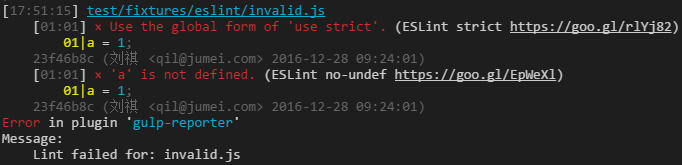
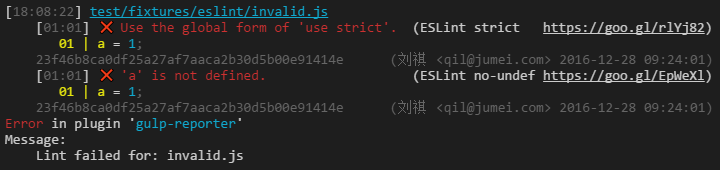
Formater (#93)
* fix testcase

* update devDependencies

* testcase for formater

* update nyc config

* update eslint config of testcase

Changed region(s): [[0.0, 0.0303, 1.0, 0.5758], [0.0, 0.5758, 1.0, 0.9697], [0.0308, 0.1212, 0.0616, 0.2121]]

diff --git a/lib/formater.js b/lib/formater.js
@@ -1,18 +1,68 @@
 'use strict';
-const logSymbols = require('log-symbols');
 const gutil = require('gulp-util');
 const path = require('path');
 const emphasize = require('emphasize');
-const ellipsis = require('text-ellipsis');
-const icon = Object.assign({
-	warn: logSymbols.warning,
-}, logSymbols);
+const cliTruncate = require('cli-truncate');
+const stringWidth = require('string-width');
 
-function highlight(error, maxLineLength) {
-	let source = error.source;
-	if (maxLineLength) {
-		source = ellipsis(source, maxLineLength);
+const icon = {
+	default: '\u{2714}\u{fe0f}',
+	info: '\u{2139}\u{fe0f}',
+	warn: '\u{26a0}\u{fe0f}',
+	error: '\u{274c}\u{fe0f}',
+};
+
+const msgColor = {
+	default: gutil.colors.green,
+	info: gutil.colors.blue,
+	warn: gutil.colors.yellow,
+	error: gutil.colors.red,
+};
+
+let padNum;
+if (String.prototype.padStart) {
+	padNum = function (number, targetLength) {
+		return String(number).padStart(targetLength, '0');
+	};
+} else {
+	padNum = function (number, targetLength) {
+		number = String(number);
+		targetLength = targetLength - number.length;
+		if (targetLength > 0) {
+			return ('0').repeat(targetLength) + number;
+		}
+		return number;
+	};
+}
+
+function justify(left, right, width) {
+	if (left) {
+		width -= stringWidth(left);
+	} else {
+		left = '';
 	}
+	if (right) {
+		width -= stringWidth(right);
+	} else {
+		right = '';
+	}
+	return left + ' '.repeat(Math.max(width, left && right ? 1 : 0)) + right;
+}
+function timeFormat(timestamp) {
+	timestamp = new Date(timestamp * 1000);
+	return [
+		timestamp.getFullYear(),
+		padNum(timestamp.getMonth() + 1, 2),
+		padNum(timestamp.getDate(), 2),
+	].join('-') + ' ' + [
+		padNum(timestamp.getHours(), 2),
+		padNum(timestamp.getMinutes(), 2),
+		padNum(timestamp.getSeconds(), 2),
+	].join(':');
+}
+
+function highlight(error) {
+	let source = error.source.replace(/\t/g, '    ');
 	if (gutil.colors.enabled) {
 		const extname = path.extname(error.fileName).slice(1);
 		if (extname) {
@@ -22,88 +72,170 @@ function highlight(error, maxLineLength) {
 				//
 			}
 		}
-		return emphasize.highlightAuto(source).value;
+		source = emphasize.highlightAuto(source).value;
 	}
 	return source;
 }
 
-function padNum(num) {
-	if (num <= 9) {
-		num = '0' + num;
-	} else {
-		num = String(num);
-	}
-	return num;
-}
-
-function addLineNumbers(code, line) {
+function addLineNumbers(code, line, fmtOpts) {
 	function add(s) {
-		let prefix = padNum(line);
-		prefix = ' '.repeat(6 - prefix.length) + gutil.colors.yellow(prefix + '|');
+		let prefix = ' '.repeat(fmtOpts.columnNumberWidth + 1);
+		prefix += gutil.colors.yellow(padNum(line, fmtOpts.lineNumberWidth) + ' | ');
 		line++;
 		return prefix + s;
 	}
 	return code.replace(/^.*$/gm, add);
 }
 
-
-function formatError(error, cache, maxLineLength) {
+function formatError(error, fmtOpts) {
 	const message = [];
-
-	function subMsg(msg) {
-		msg = msg.filter(Boolean);
-		if (msg.length) {
-			return `(${ msg.join(' ') })`;
-		}
+	let severity = error.severity;
+	if (!severity || !icon[severity]) {
+		severity = 'default';
 	}
 
-	function addMsg(msg, color) {
-		msg = msg.filter(Boolean).join(' ');
-		if (color) {
-			msg = gutil.colors[color](msg);
-		}
-		message.push(msg);
+	const mainMessage = '[' + gutil.colors.gray(`${
+		padNum(error.lineNumber || 1, fmtOpts.lineNumberWidth)
+	}:${
+		padNum(error.columnNumber || 1, fmtOpts.columnNumberWidth)
+	}`) + '] ' + msgColor[severity](icon[severity] + ' ' + error.message);
+	let subMsg = [];
+
+	if (error.plugin) {
+		subMsg.push(justify(error.plugin, null, fmtOpts.maxPluginNameWidth));
+	}
+
+	if (error.rule) {
+		subMsg.push(justify(error.rule, null, fmtOpts.maxRuleNameWidth));
+	}
+
+	if (subMsg.length === 1) {
+		subMsg[0] = justify(subMsg[0], null, fmtOpts.maxPluginNameWidth + fmtOpts.maxRuleNameWidth + 1);
 	}
 
 	const link = error.docShort || error.doc;
 
-	addMsg([
-		error.lineNumber && '[' + gutil.colors.gray(`${ padNum(error.lineNumber) }:${ padNum(error.columnNumber) || 0 }`) + ']',
-		gutil.colors[error.severity === 'error' ? 'red' : 'yellow'](
-			(icon[error.severity] || icon.warn) +
-				' ' +
-				error.message
-		),
-		subMsg([error.plugin, error.rule, link && gutil.colors.underline(link)]),
-	]);
+	if (link) {
+		subMsg.push(gutil.colors.underline(link));
+	}
+	if (subMsg.length) {
+		subMsg = `(${ subMsg.join(' ').trim() })`;
+		if (stringWidth(mainMessage) + stringWidth(subMsg) >= fmtOpts.termColumns) {
+			message.push(mainMessage);
+			message.push(justify(
+				null,
+				subMsg,
+				fmtOpts.termColumns
+			));
+		} else {
+			message.push(
+				justify(
+					mainMessage,
+					subMsg,
+					fmtOpts.termColumns
+				)
+			);
+		}
+	} else {
+		message.push(mainMessage);
+	}
 
 	if (error.source) {
-		addMsg([
-			cache[error.source] || (cache[error.source] = addLineNumbers(highlight(error, maxLineLength), error.lineNumber))
-		]);
+		let source = fmtOpts.sourceCache[error.source];
+		if (!source) {
+			source = highlight(error);
+			source = addLineNumbers(source, error.lineNumber || 1, fmtOpts);
+			source = cliTruncate(source, fmtOpts.termColumns);
+			fmtOpts.sourceCache[error.source] = source;
+		}
+		message.push(source);
 	}
 
 	if (error.blame) {
-		addMsg([
-			error.blame.hash.slice(0, 8),
-			subMsg([
-				error.blame.author.name,
-				`<${ error.blame.author.mail }>`,
-				new Date(error.blame.author.time * 1000).toLocaleString()
-			])
-		], 'gray');
+		let blame = error.blame._string;
+		if (!blame) {
+			const author = `(${
+				justify(
+					error.blame.author.name,
+					null,
+					fmtOpts.maxNameWidth
+				)
+			} ${
+				justify(
+					`<${ error.blame.author.mail }>`,
+					null,
+					fmtOpts.maxEmailWidth + 2
+				)
+			} ${
+				timeFormat(error.blame.author.time)
+			})`;
+
+			blame = gutil.colors.gray(justify(
+				cliTruncate(
+					error.blame.hash,
+					Math.max(fmtOpts.termColumns - stringWidth(author) - 1, 9)
+				),
+				author,
+				fmtOpts.termColumns
+			));
+			error.blame._string = blame;
+		}
+		message.push(blame);
 	}
 
 	return message.join('\n');
 }
 
 function formater(file, options) {
-	const cache = {};
-	const errors = file.report.errors.map(error => (
-		formatError(error, cache, options.maxLineLength).replace(/^/gm, '\t')
+	const sourceCache = {};
+	let maxLineNumber = 0;
+	let maxColumnNumber = 0;
+	let maxNameWidth = 0;
+	let maxEmailWidth = 0;
+	let maxPluginNameWidth = 0;
+	let maxRuleNameWidth = 0;
+	let errors = file.report.errors;
+	errors.forEach(error => {
+		if (error.lineNumber > maxLineNumber) {
+			maxLineNumber = error.lineNumber;
+		}
+		if (error.columnNumber > maxColumnNumber) {
+			maxColumnNumber = error.columnNumber;
+		}
+		if (error.blame && !/^0+$/.test(error.blame.hash)) {
+			const nameWidth = stringWidth(error.blame.author.name);
+			if (nameWidth > maxNameWidth) {
+				maxNameWidth = nameWidth;
+			}
+			const emailWidth = stringWidth(error.blame.author.mail);
+			if (emailWidth > maxEmailWidth) {
+				maxEmailWidth = emailWidth;
+			}
+		}
+		const pluginNameWidth = error.plugin && stringWidth(error.plugin);
+		if (pluginNameWidth > maxPluginNameWidth) {
+			maxPluginNameWidth = pluginNameWidth;
+		}
+		const ruleNameWidth = error.rule && stringWidth(error.rule);
+		if (ruleNameWidth > maxRuleNameWidth) {
+			maxRuleNameWidth = ruleNameWidth;
+		}
+	});
+	const fmtOpts = {
+		sourceCache,
+		maxNameWidth,
+		maxEmailWidth,
+		maxPluginNameWidth,
+		maxRuleNameWidth,
+		lineNumberWidth: Math.max(String(maxLineNumber).length, 2),
+		columnNumberWidth: Math.max(String(maxColumnNumber).length, 2),
+		termColumns: options._termColumns - 6,
+	};
+	errors = errors.map(error => (
+		formatError(error, fmtOpts).replace(/^/gm, '    ')
 	));
 	errors.unshift(gutil.colors.cyan.underline(path.relative(file.cwd, file.path).replace(/\\/g, '/')));
-	return errors.join('\n').replace(/\t/g, '    ');
+	return errors.join('\n');
 }
 
 module.exports = formater;

diff --git a/test/api.test.js b/test/api.test.js
@@ -4,11 +4,13 @@ const addPostcssSource = require('../lib/add-postcss-source');
 const shortDocUrl = require('../lib/short-doc-url');
 const sortErrors = require('../lib/sort-errors');
 const gitAuthor = require('../lib/git-author');
-const vfs = require('vinyl-fs');
-const eslint = require('gulp-eslint');
+const formater = require('../lib/formater');
 const reporter = require('../');
-const gutil = require('gulp-util');
+const eslint = require('gulp-eslint');
 const through = require('through2');
+const gutil = require('gulp-util');
+const vfs = require('vinyl-fs');
+const path = require('path');
 
 require('./sandbox');
 
@@ -184,6 +186,24 @@ describe('API', () => {
 					done();
 				});
 		});
+	});
+
+	it('error formater', () => {
+		const fileName = path.join(__dirname, 'fixtures/testcase');
+
+		assert.equal(gutil.colors.stripColor(formater({
+			cwd: __dirname,
+			path: fileName,
+			report: {
+				errors: [{
+					message: 'testcase message',
+					source: 'testcase source',
+					fileName,
+				}]
+			}
+		}, {
+			_termColumns: 60
+		})), 'fixtures/testcase\n    [01:01] ✔ testcase message\n       01 | testcase source');
 	});
 
 	it('git-author error', () => {

diff --git a/lib/get-options.js b/lib/get-options.js
@@ -1,6 +1,7 @@
 'use strict';
 const gitAuthor = require('./git-author');
 const toTime = require('to-time');
+const termSize = require('term-size');
 
 function unixTimestamp(now) {
 	return Math.floor((now || Date.now()) / 1000);
@@ -8,6 +9,7 @@ function unixTimestamp(now) {
 
 module.exports = function(options) {
 	const authorCache = {};
+	const termColumns = Math.max(termSize().columns, 80);
 
 	function getAuthor(cwd) {
 		return authorCache[cwd] || (authorCache[cwd] = gitAuthor(cwd));
@@ -65,6 +67,7 @@ module.exports = function(options) {
 				}
 			}
 
+			options._termColumns = termColumns;
 			return options;
 		});
 	}

diff --git a/test/postcss.test.js b/test/postcss.test.js
@@ -56,7 +56,7 @@ describe('PostCSS', function() {
 			}))
 			.on('error', ex => {
 				const reMessage = /^\[\d+:\d+\]\s+.+?\s+\(\w+\s+\w+(-\w+)*\s+https?:\/\/(goo\.gl|t\.cn)\/\w+\)$/;
-				const reBlame = /^\w+\s\(\S+.*?\s+<.+?>\s+\d+.+?\)$/;
+				const reBlame = /^\w+…?\s\(\S+.*?\s+<.+?>\s+\d+.+?\)$/;
 				const reSource = /^\d+|\s*.*?\S$/;
 
 				assert.equal(ex.message, 'Lint failed for: test/fixtures/postcss/invalid.css');

diff --git a/test/eslint.test.js b/test/eslint.test.js
@@ -114,7 +114,7 @@ describe('ESLint', () => {
 			}
 		}))
 			.on('finish', () => {
-				assert.ok(/\s+0+\s+\(Not Committed Yet <not.committed.yet> \d+\D\d+\D\d+.+?\)/.test(message[0]));
+				assert.ok(/^\s*0+…?\s+\(Not Committed Yet\s+<not.committed.yet>\s+\d+-\d+-\d+ \d+:\d+:\d+\)$/m.test(message[0]));
 				done();
 			})
 			.on('error', done);

diff --git a/test/sandbox.js b/test/sandbox.js
@@ -21,4 +21,6 @@ function errorHandle(error) {
 process.on('unhandledRejection', errorHandle);
 process.on('uncaughtException', errorHandle);
 
-exports.getLog = () => gutil.colors.stripColor(gutil.log.lastCall.args[0]);
+exports.getLog = () => (
+	gutil.colors.stripColor(gutil.log.lastCall.args[0]).replace(/ +/g, ' ').replace(/\n \(/g, ' (')
+);
